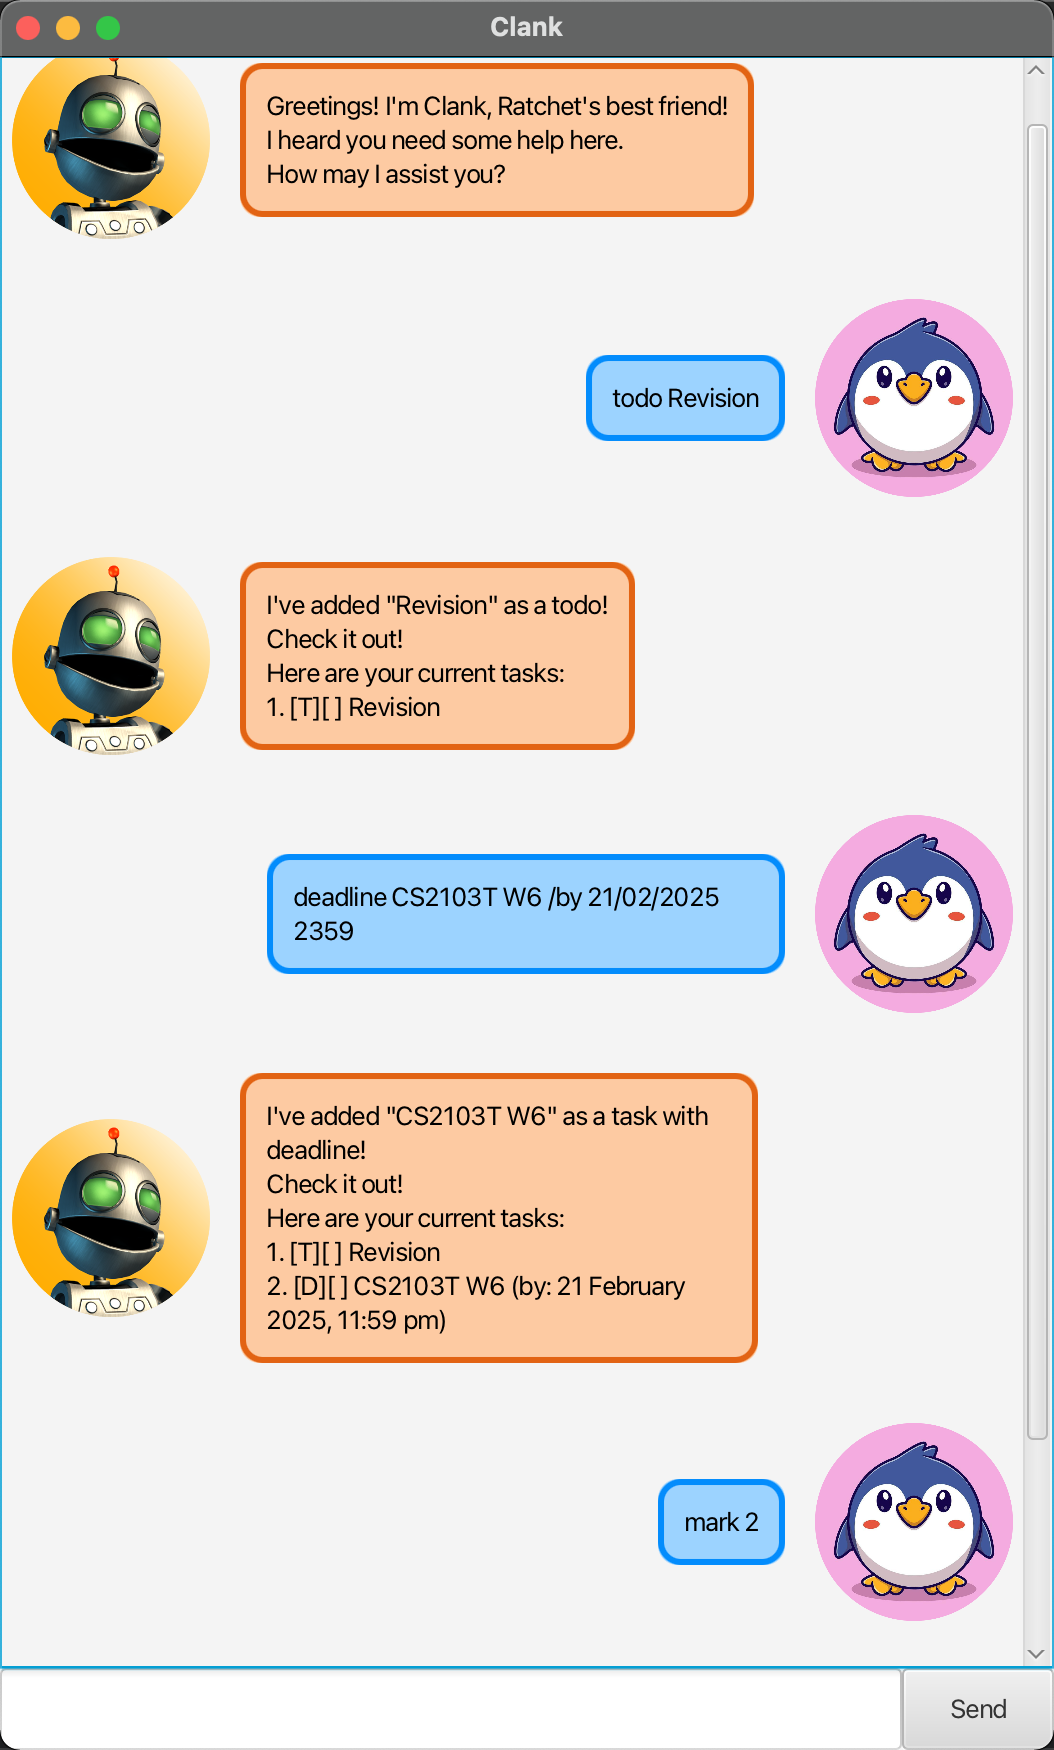
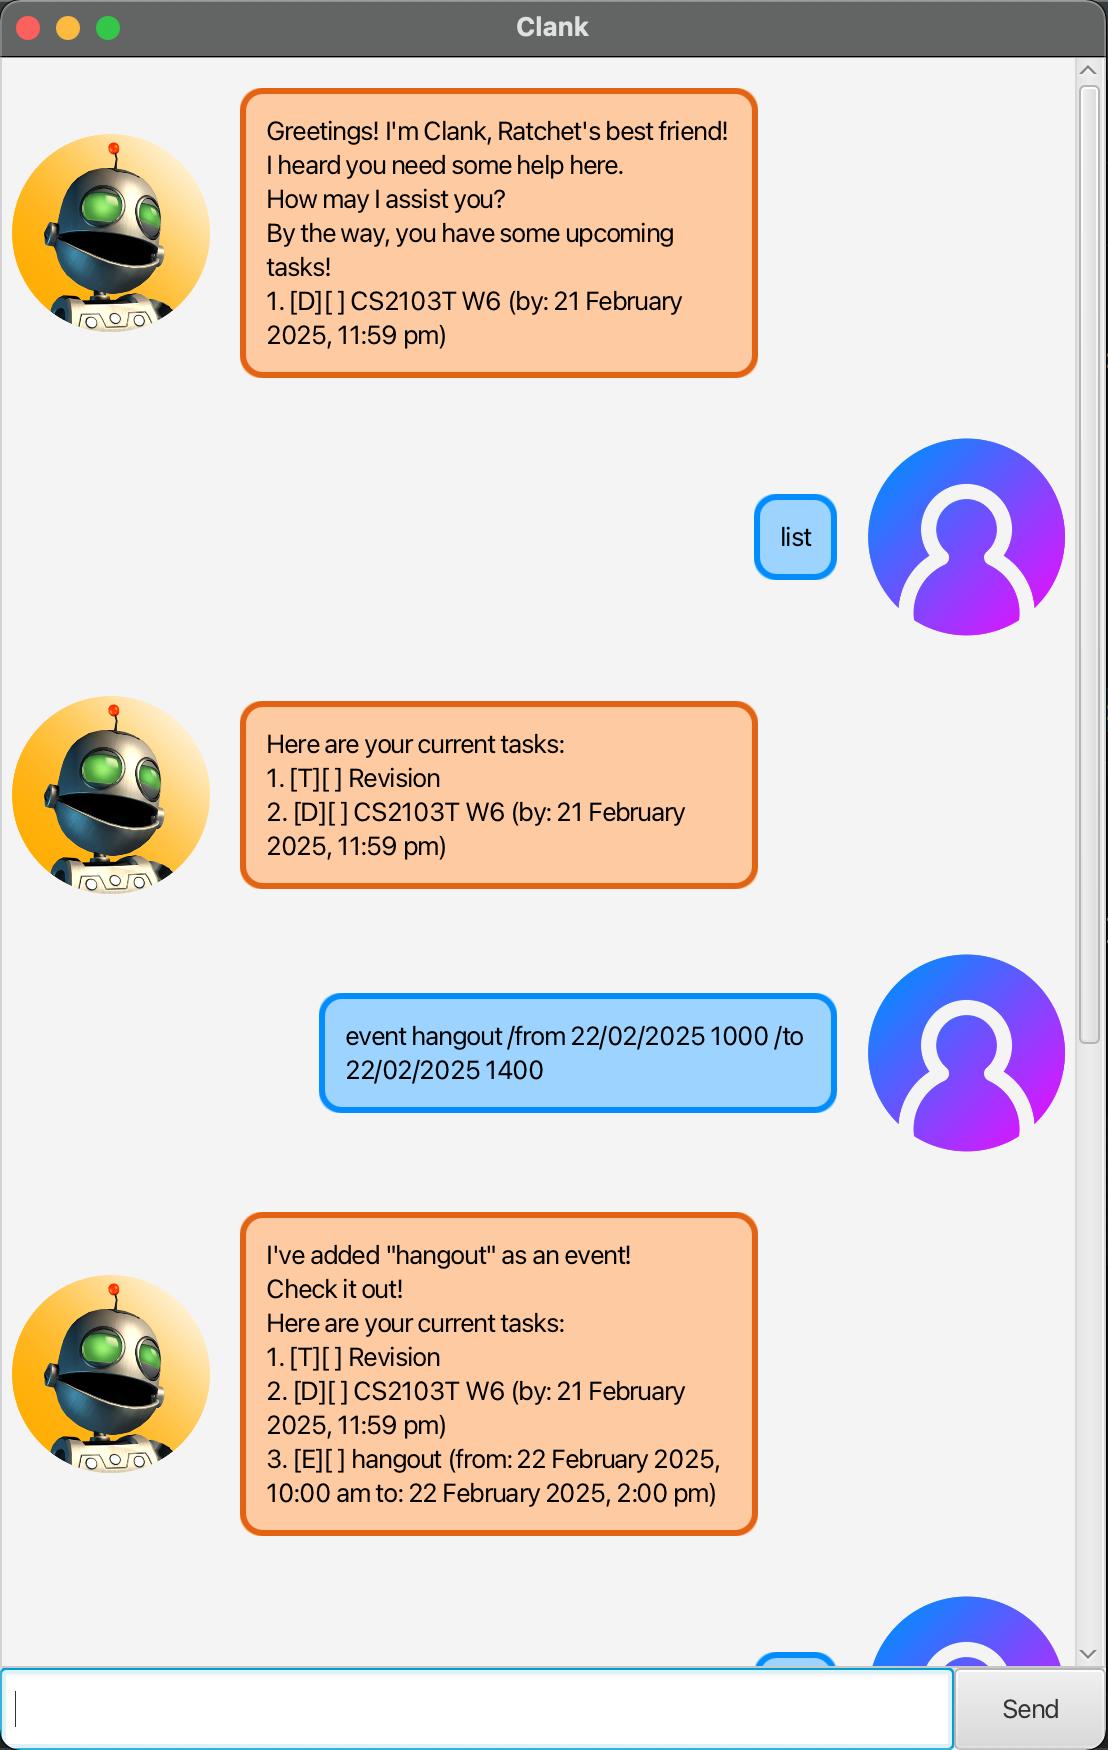
Add README and updated sample Ui screenshot

diff --git a/docs/README.md b/docs/README.md
@@ -1,30 +1,109 @@
-# Duke User Guide
+# 👾  Clank: Chatbot x Task Manager
 
-// Update the title above to match the actual product name
+---
 
-// Product screenshot goes here
+Clank is a intelligent **task management chatbot** that helps you stay organized and productive.
+With simple and easy-to-understand commands, track your todos, homework deadlines, or even 
+upcoming event easily and never lose track and forget about them again!
 
-// Product intro goes here
+> Clank **auto-saves** your tasks, so you won’t lose progress even if you close the app!
 
-## Adding deadlines
+---
 
-// Describe the action and its outcome.
-
-// Give examples of usage
-
-Example: `keyword (optional arguments)`
-
-// A description of the expected outcome goes here
-
+## 📥  Installation
+1. Ensure Java 11 or later is installed on your machine.
+2. Download Clank.jar from the latest release.
+3. Open your terminal and run:
 ```
-expected output
+java -jar Clank.jar
 ```
+4. You should see Clank’s greeting message. Start entering commands!
 
-## Feature ABC
+---
 
-// Feature details
+## 📌  Features
+### 📝  1. Adding Tasks
+Clank supports **three** types of tasks:
+- To-Do → Simple tasks with no date.
+```
+todo Read a book
+```
+✓ Adds "Read a book" to your list.
 
+- Deadline → Tasks with a due date.
+```
+deadline Submit assignment /by 21/02/2025 2359
+```
+✓ Adds "Submit assignment" due on Feb 21, 2025.
 
-## Feature XYZ
+- Event → Tasks with a specific date and time.
+```
+event Team meeting /from 22/2/2025 1500 /to 22/2/2025 1600
+```
+✓ Schedules "Team meeting" from 3pm to 4pm on Feb 22, 2025.
 
-// Feature details
+### ✅  2. Managing Tasks
+- Save the current task list:
+```
+save
+```
+✓ Saves all the tasks in task list.
+
+- Mark a task as done:
+```
+mark 1
+```
+✓ Marks task #1 as completed.
+
+- Unmark a task:
+```
+unmark 1
+```
+✓ Marks task #1 as not done.
+
+- Delete a task:
+```
+delete 2
+```
+✓ Removes task #2.
+
+- Delete all tasks:
+```
+delete all
+```
+✓ Removes all available tasks.
+
+### 🔍  3. Viewing & Searching Tasks
+- List all tasks:
+```
+- list
+```
+✓ Displays all your tasks.
+
+- Find tasks by keyword:
+```
+find book
+```
+✓ Searches for tasks containing "book".
+
+- Find tasks by multiple keywords:
+```
+find book study
+```
+✓ Searches for tasks containing "book" **AND** ""study".
+
+### ⏰ 4. Showing Reminders
+To show upcoming tasks:
+```
+reminder 3
+```
+✓ Show upcoming tasks in 3 days.
+
+### 🚪  5. Exiting Clank
+To close the chatbot:
+```
+bye
+```
+✓ Saves tasks and exits.
+
+🚀 Stay productive with Clank!
